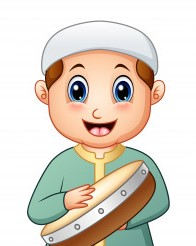
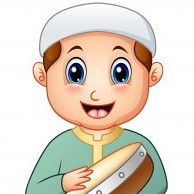
fix image that not have square dimensions

diff --git a/index.html b/index.html
@@ -23,7 +23,7 @@
       <!-- Contributors Card -->
       <div class="contributors-card">
         <div class="picture">
-          <!-- Recommended Square Image -->
+          <!-- Must be Square Image / 1:1 Aspect Ratio -->
           <img class="img-fluid" src="img/custom-user-images/minion.jpg">
         </div>
         <div class="contributors-content">
@@ -33,8 +33,9 @@
       </div>
       <div class="contributors-card">
         <div class="picture">
-          <!-- Recommended Square Image -->
-          <img class="img-fluid" src="img/custom-user-images/happy-muslim-kid-cartoon-playing-tambourine_43633-3217.jpg">
+          <!-- Must be Square Image / 1:1 Aspect Ratio -->
+          <img class="img-fluid"
+            src="img/custom-user-images/happy-muslim-kid-cartoon-playing-tambourine_43633-3217.jpg">
         </div>
         <div class="contributors-content">
           <h3 class="name">Muhammad Irhamul Umam</h3>
